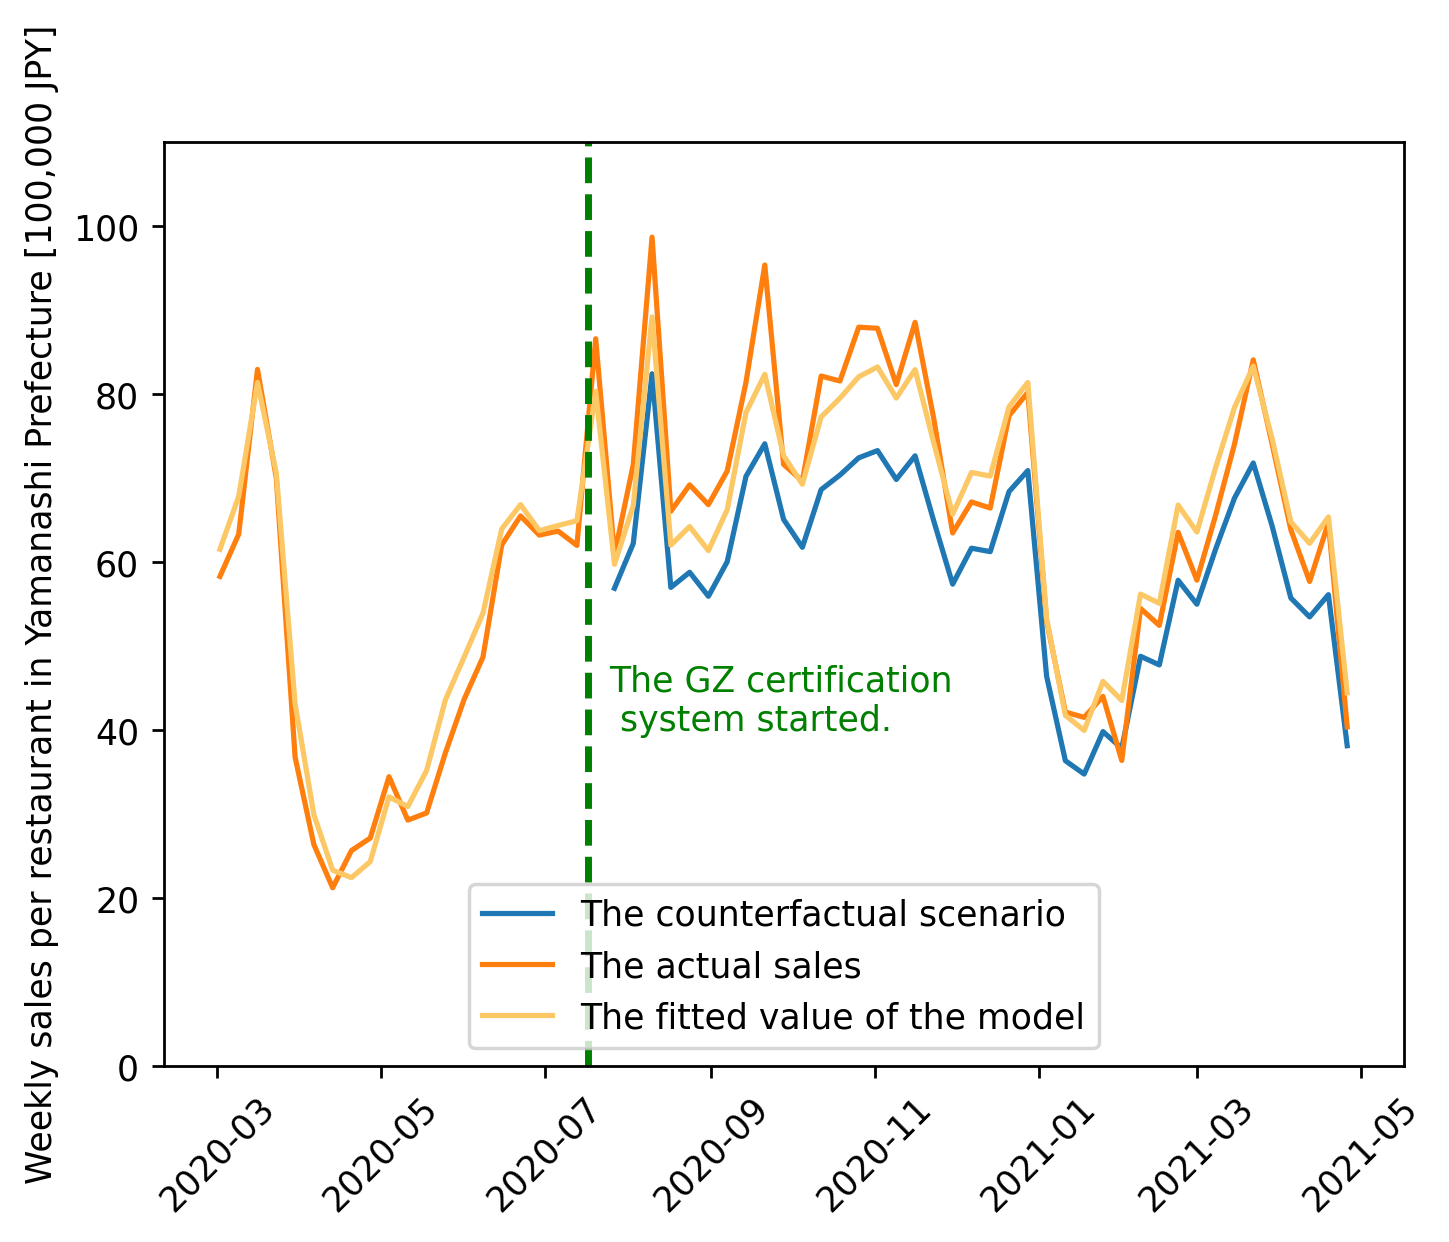
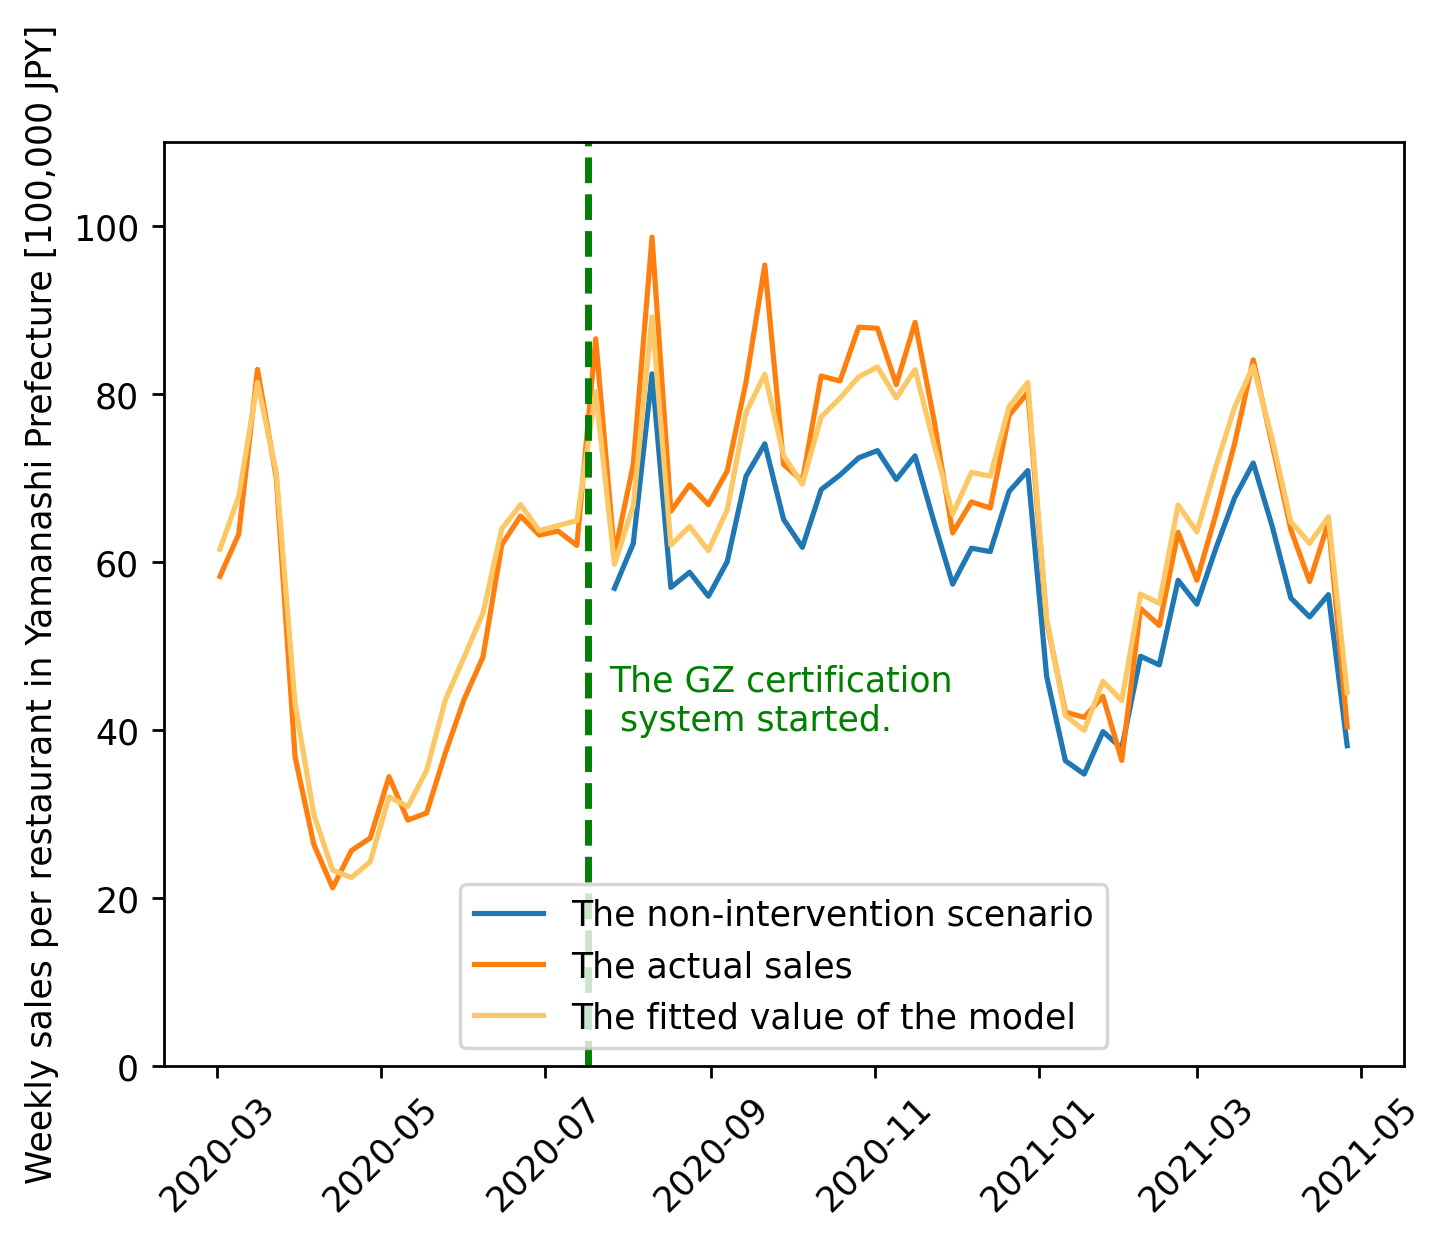
updates in py file

Changed region(s): [[0.3727, 0.7037, 0.7764, 0.8261], [0.3106, 0.7037, 0.3416, 0.8261]]

diff --git a/04_analyze/Counterfactual/code/analyze.py b/04_analyze/Counterfactual/code/analyze.py
@@ -4,13 +4,13 @@ import pandas as pd
 import matplotlib.pyplot as plt
 import numpy as np
 
-# Counterfactual of Economic Effects ------
+# Counterfactual of Economic Effects (sales)------
 
-# Data load
+# Data load (sales)
 YamanashiTrend = pd.read_csv("03_build/Counterfactual/output/sales_weekly_data_for_plot.csv")
 YamanashiTrend['week'] = pd.to_datetime(YamanashiTrend['week'])
 
-# Data clean
+# Data clean (sales)
 cofa = YamanashiTrend[YamanashiTrend.type == "counterfactual"]
 obs = YamanashiTrend[YamanashiTrend.type == "actual"]
 fit = YamanashiTrend[YamanashiTrend.type == "fitted"]
@@ -21,7 +21,7 @@ obs2 = obs2['2020-03-01':'2021-04-30']
 fit2 = fit.set_index('week')
 fit2 = fit2['2020-03-01':'2021-04-30']
 
-# Plot
+# Plot (sales)
 fig, ax = plt.subplots()
 plt.xticks(rotation=45)
 ax.plot(cofa2.index, cofa2['sales']/10000)
@@ -29,10 +29,43 @@ ax.plot(obs2.index, obs2['sales']/10000)
 ax.plot(fit2.index, fit2['sales']/10000, color = "#fcc765")
 ax.axvline(pd.to_datetime('2020-07-17'), color='green', linestyle='dashed', lw=2)
 ax.text(pd.Timestamp("2020-07-25"), 40, "The GZ certification \n system started.", color = 'green')
-plt.legend(['The counterfactual scenario', "The actual sales", "The fitted value of the model"], loc='lower center')
+plt.legend(['The non-intervention scenario', "The actual sales", "The fitted value of the model"], loc='lower center')
 plt.ylabel("Weekly sales per restaurant in Yamanashi Prefecture [100,000 JPY]")
 plt.ylim(0, 110)
 plt.savefig("04_analyze/Counterfactual/output/cofa_sales.png", format="png", dpi=250, pad_inches=0.1, bbox_inches="tight")
+
+# Counterfactual of Economic Effects (customers)----------
+
+# Data load (customers)
+YamanashiTrendCus = pd.read_csv("03_build/Counterfactual/output/customers_weekly_data_for_plot.csv")
+YamanashiTrendCus['week'] = pd.to_datetime(YamanashiTrendCus['week'])
+
+# Data clean (customers)
+cofaC = YamanashiTrendCus[YamanashiTrendCus.type == "counterfactual"]
+obsC = YamanashiTrendCus[YamanashiTrendCus.type == "actual"]
+fitC = YamanashiTrendCus[YamanashiTrendCus.type == "fitted"]
+cofa2C = cofaC.set_index('week')
+cofa2C = cofa2C['2020-07-27':'2021-04-30']
+obs2C = obsC.set_index('week')
+obs2C = obs2C['2020-03-01':'2021-04-30']
+fit2C = fitC.set_index('week')
+fit2C = fit2C['2020-03-01':'2021-04-30']
+
+# Plot (customers)
+fig, ax = plt.subplots()
+plt.xticks(rotation=45)
+ax.plot(cofa2C.index, cofa2C['customers'])
+ax.plot(obs2C.index, obs2C['customers'])
+ax.plot(fit2C.index, fit2C['customers'], color = "#fcc765")
+ax.axvline(pd.to_datetime('2020-07-17'), color='green', linestyle='dashed', lw=2)
+ax.text(pd.Timestamp("2020-03-01"), 400, "The GZ certification \n system started.", color = 'green')
+plt.legend(['The non-intervention scenario', "The actual number of customers", "The fitted value of the model"], loc = "lower center")
+plt.ylabel("Number of customers per restaurant \n by week in Yamanashi Prefecture")
+plt.ylim(0, 450)
+plt.savefig("04_analyze/Counterfactual/output/cofa_customers.png", format="png", dpi=250, pad_inches=0.1, bbox_inches="tight")
+
+
+
 
 
 # Counterfactual of Infection Prevention Effects ---------
@@ -61,7 +94,7 @@ ax.plot(obscovid2.index, obscovid2['nofcases'])
 ax.plot(fitcovid2.index, fitcovid2['nofcases'], color = "#fcc765")
 ax.axvline(pd.to_datetime('2020-07-17'), color='green', linestyle='dashed', lw=2)
 ax.text(pd.Timestamp("2020-08-01"), 150, "The GZ certification \n system started.", color = 'green')
-plt.legend(['The counterfactual scenerio', "The actual new infection cases", "The fitted value of the model"] )
+plt.legend(['The non-intervention scenerio', "The actual new infection cases", "The fitted value of the model"] )
 plt.ylabel("The new infection cases in total per week")
 plt.savefig("04_analyze/Counterfactual/output/cofa_covid.png", format="png", dpi=250, pad_inches=0.1, bbox_inches="tight")
 
